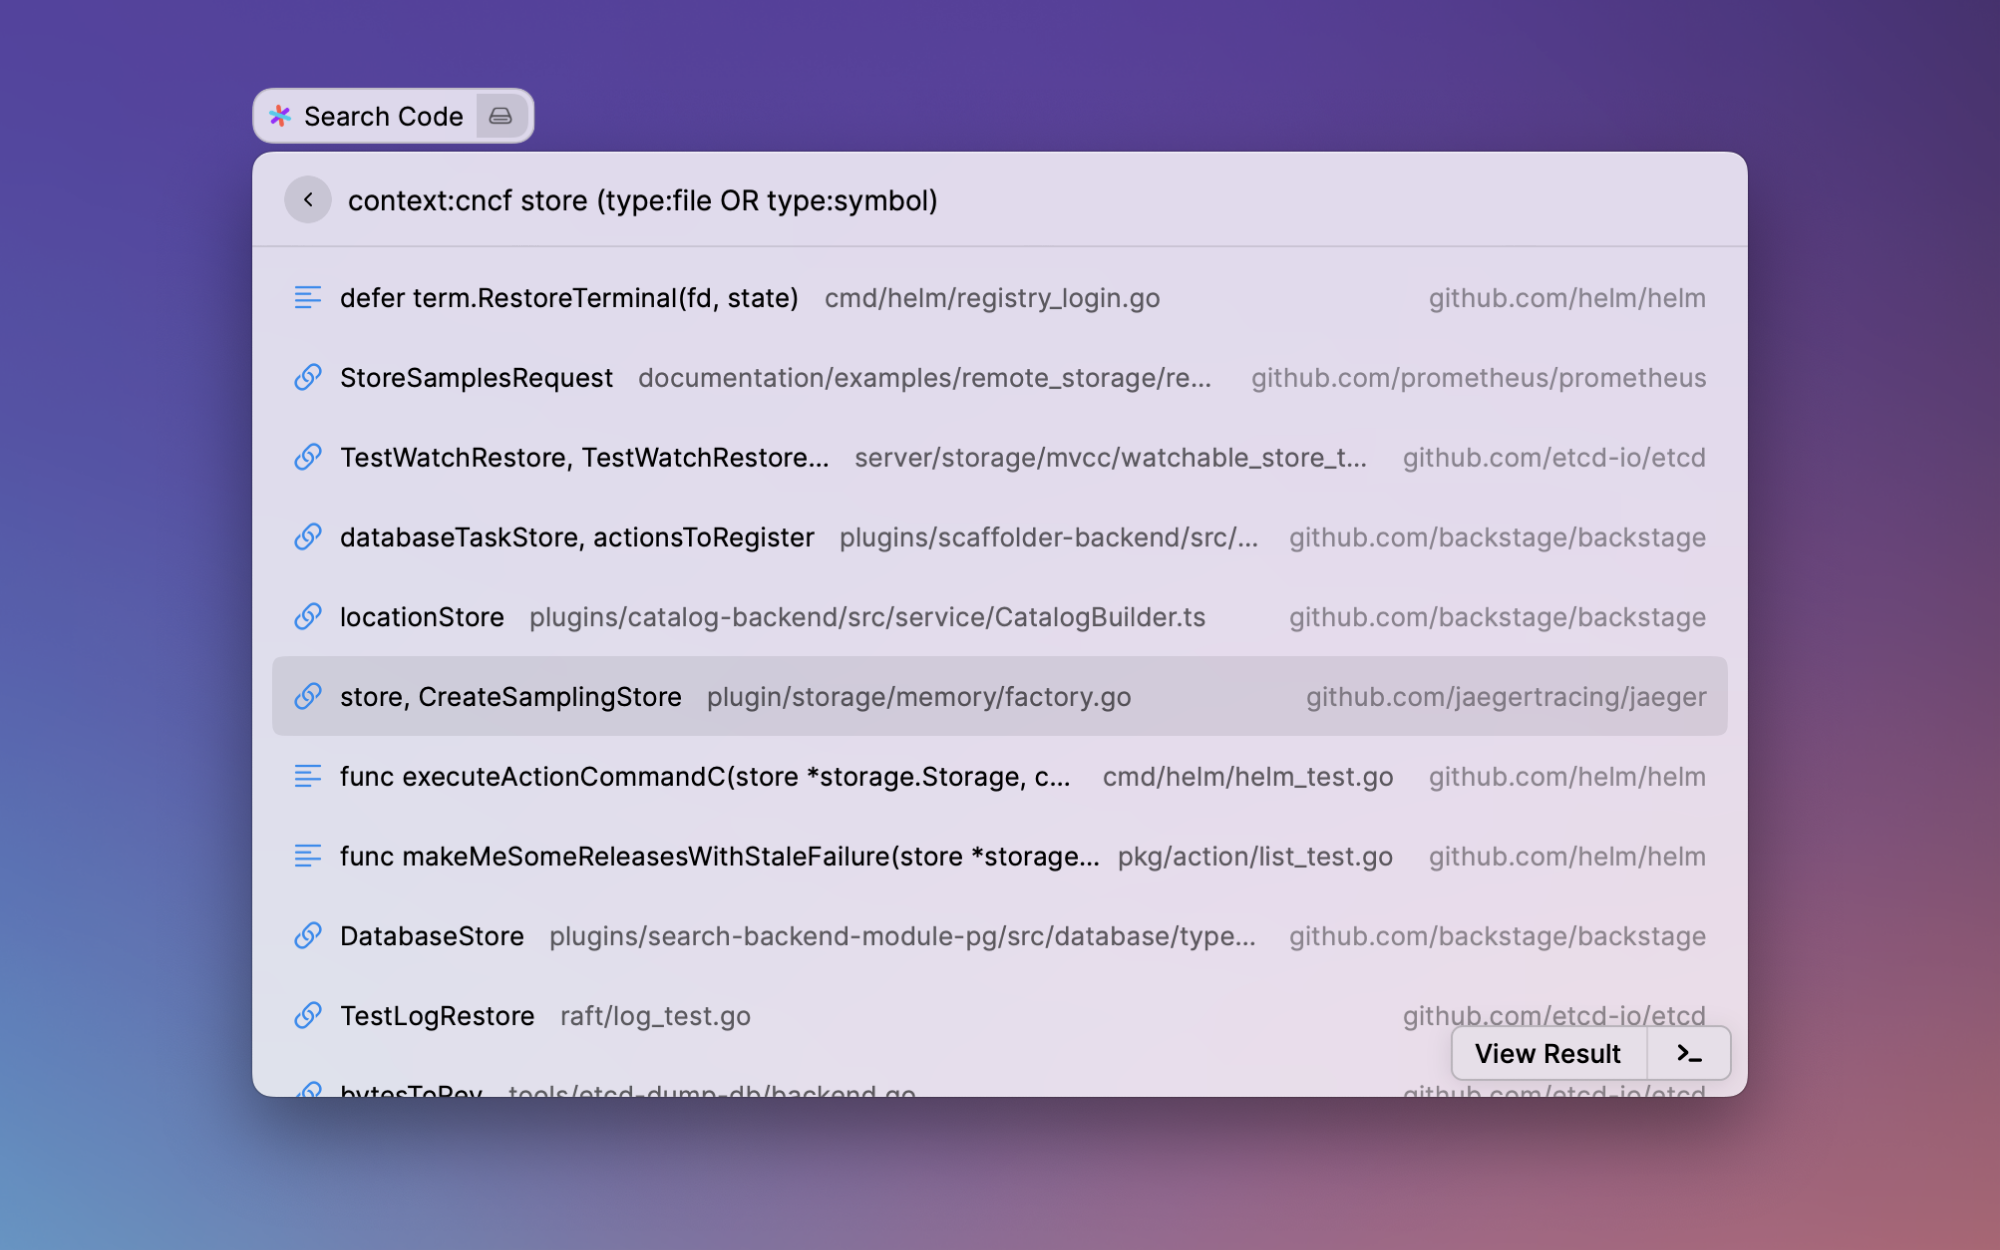
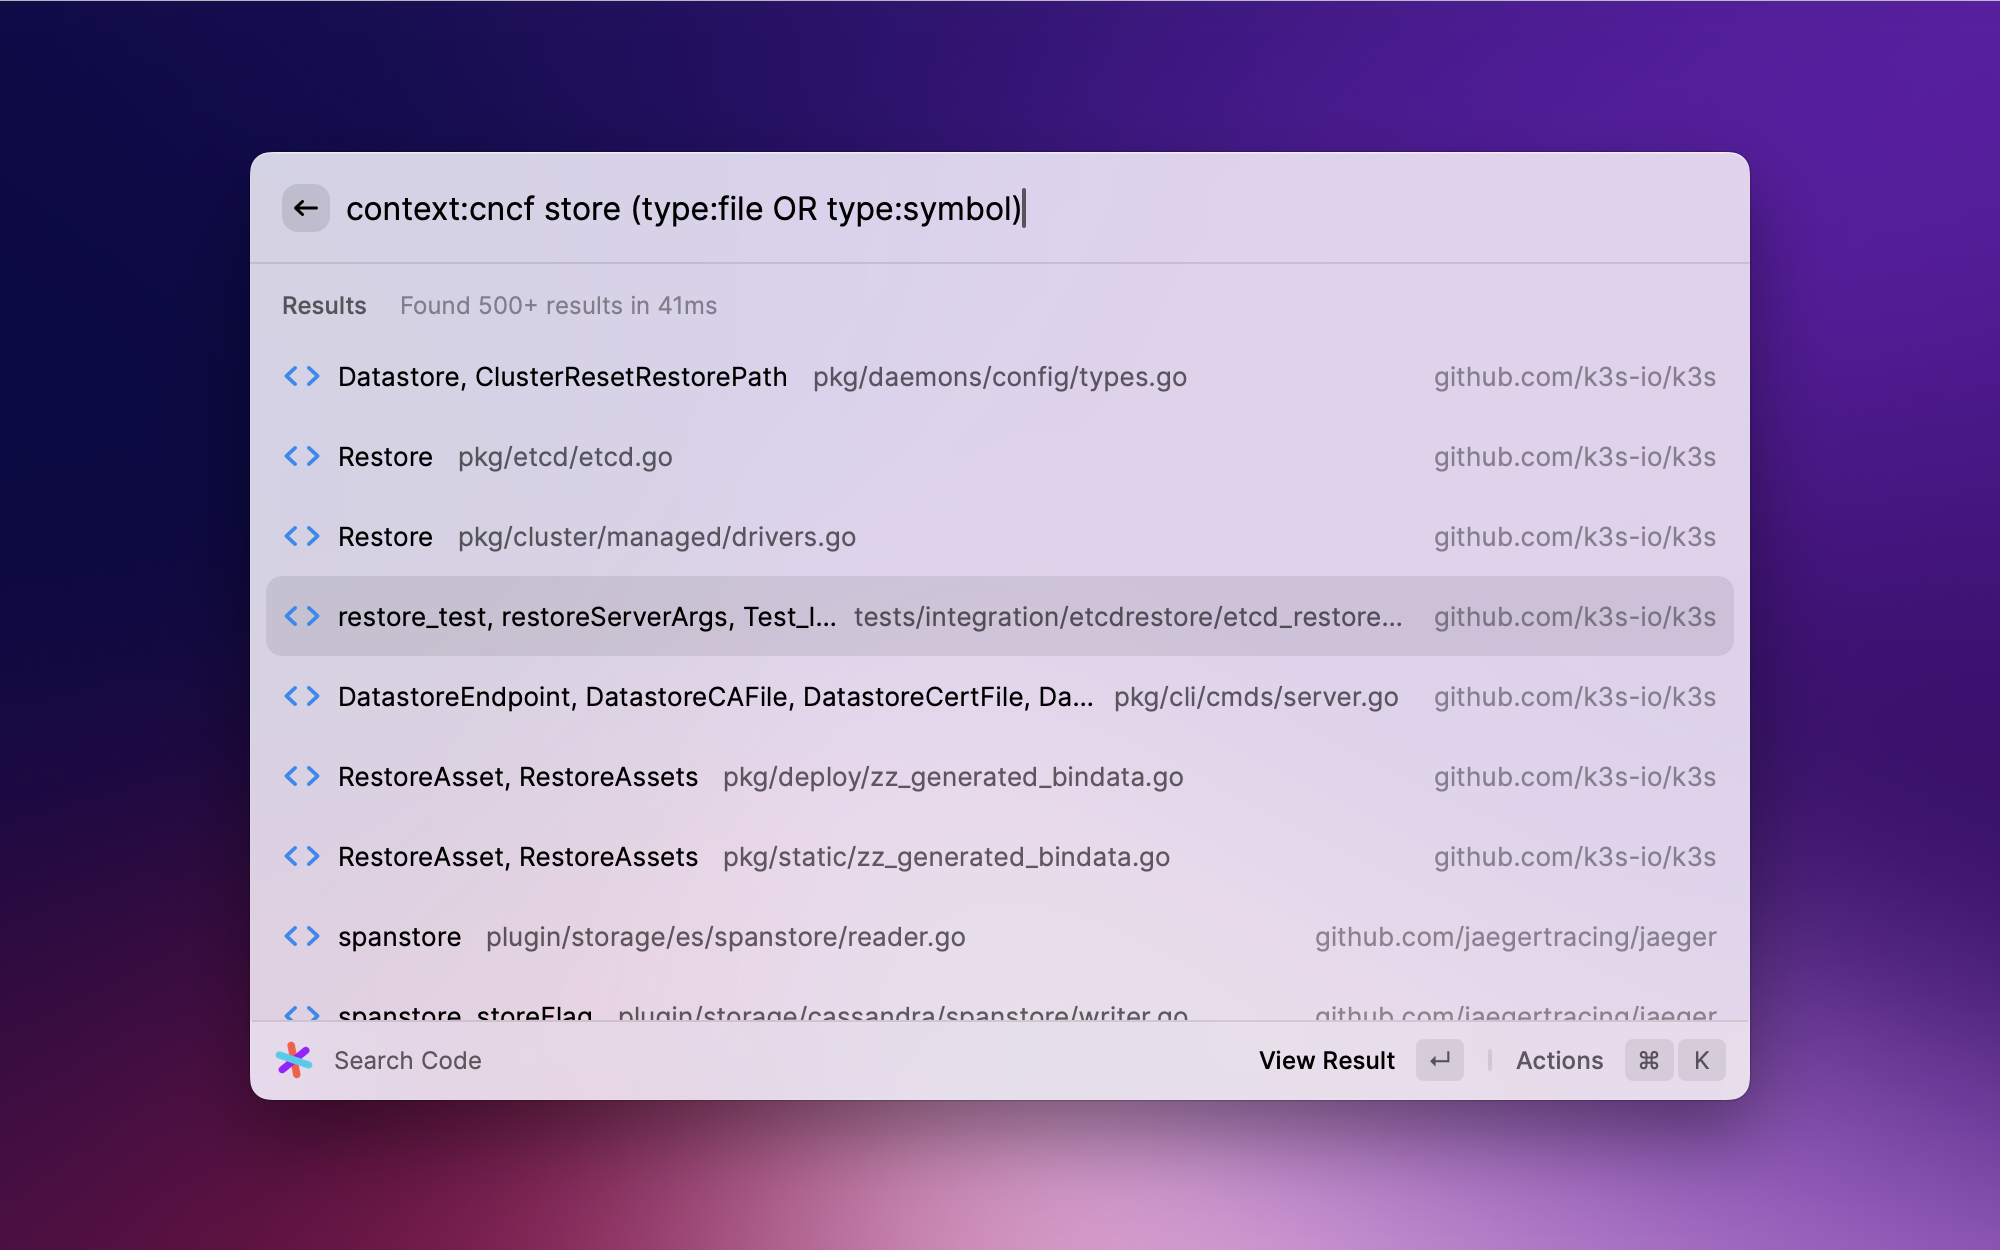
metadata: update screenshots

diff --git a/CONTRIBUTING.md b/CONTRIBUTING.md
@@ -35,6 +35,13 @@ See the [Raycast version history guide](https://developers.raycast.com/basics/pr
 
 Screenshots for the Raycast store are in the [`metadata/` directory](./metadata/). See the [Raycast extension screenshots guide](https://developers.raycast.com/basics/prepare-an-extension-for-store#screenshots).
 
+The current screenshot samples are:
+
+1. Search `context:cncf store (type:file OR type:symbol)`
+2. Search `r:^github\.com/etcd\-io/etcd$ f:etcdutl/etcdutl/snapshot_command\.go type:symbol store` -> select first result
+3. Notebooks `actor propagation` -> preview
+4. Batch Changes -> find random batch change with mix of merged and unmerged changesets
+
 ## Publishing to the Raycast store
 
 The latest release of this extension is published to [`extensions/sourcegraph` in `raycast/extensions`](https://github.com/raycast/extensions/tree/main/extensions/sourcegraph).
